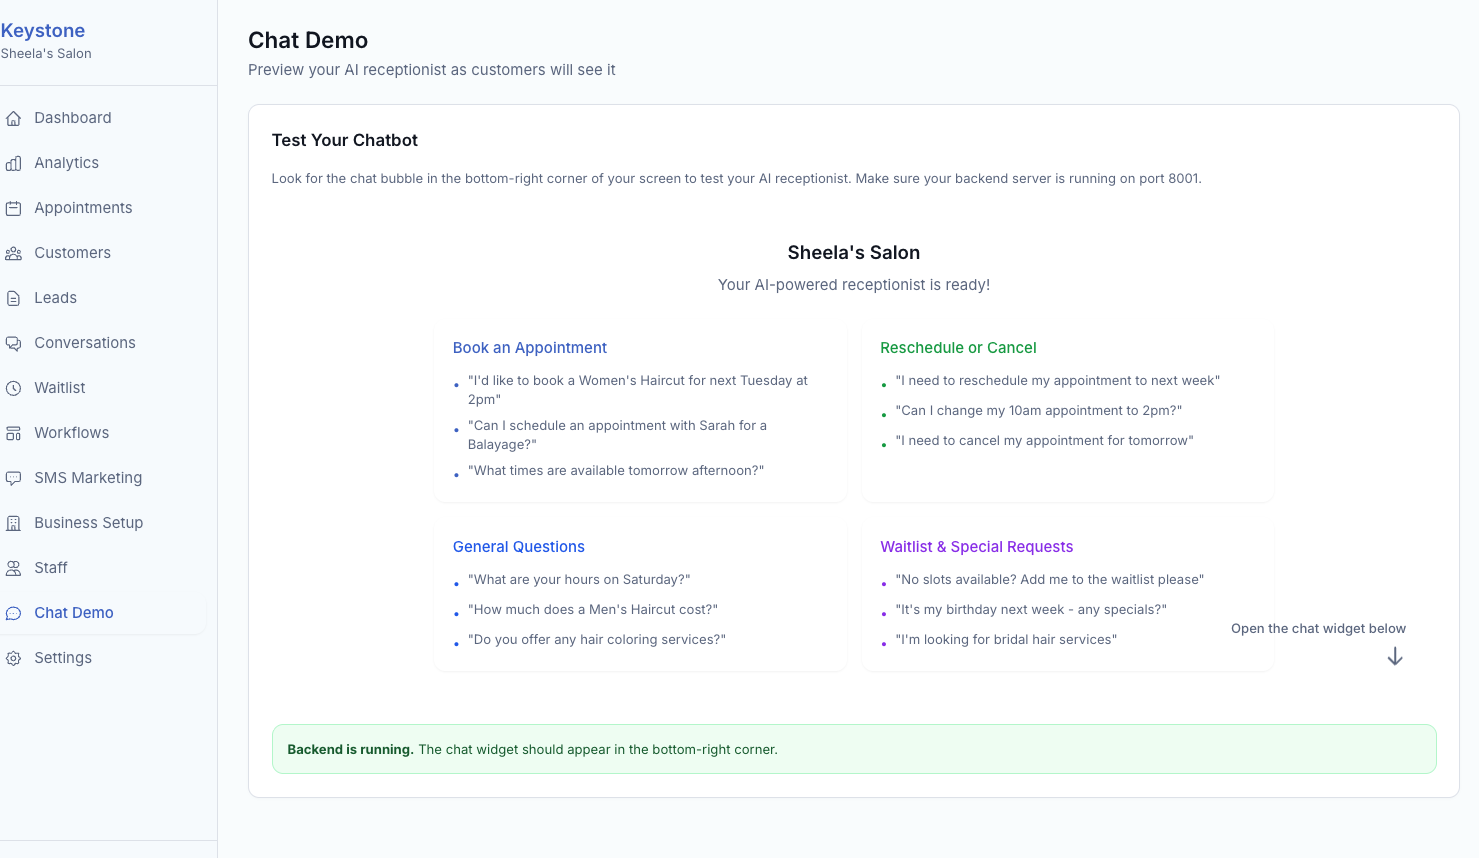
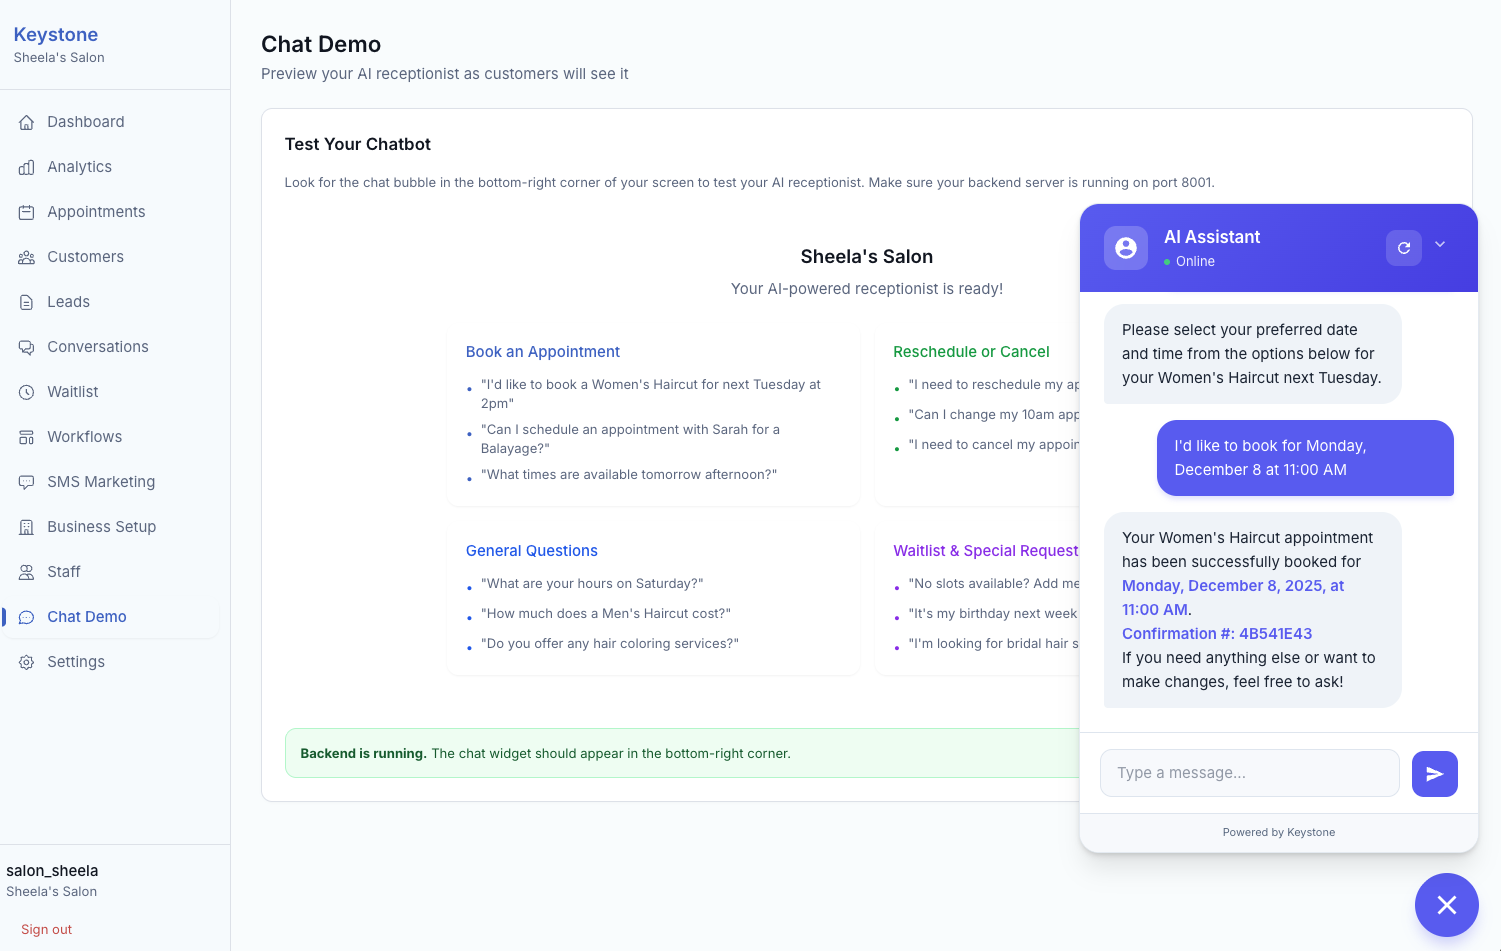
feat(deploy): configure app for production environment
Update API endpoints and embed code to use production URLs
at receptionist-ai.pragnyalabs.com instead of localhost.
Add api_url parameter to embed code generation for flexible
widget configuration. Update chat demo messaging and screenshot.
Allow .db files in version control for database persistence.

diff --git a/frontend/admin/src/pages/ChatDemo.tsx b/frontend/admin/src/pages/ChatDemo.tsx
@@ -1,7 +1,7 @@
 import { useEffect, useState } from 'react'
 import { useAuth } from '../hooks/useAuth'
 
-const API_URL = 'http://localhost:8001'
+const API_URL = 'https://receptionist-ai.pragnyalabs.com/api'
 
 export default function ChatDemo() {
   const { business } = useAuth()
@@ -70,7 +70,7 @@ export default function ChatDemo() {
         <h2 className="text-lg font-semibold mb-4">Test Your Chatbot</h2>
         <p className="text-sm text-muted-foreground mb-6">
           Look for the chat bubble in the bottom-right corner of your screen to test your AI receptionist. 
-          Make sure your backend server is running on port 8001.
+          The chat widget connects to the production API.
         </p>
         
         <div className="bg-secondary/30 rounded-xl p-8 min-h-[400px] relative">
@@ -165,12 +165,8 @@ export default function ChatDemo() {
         {backendStatus === 'offline' && (
           <div className="mt-6 p-4 bg-red-50 border border-red-200 rounded-lg">
             <p className="text-sm text-red-800">
-              <strong>Backend is not running.</strong> Start the server with:
+              <strong>Backend is not reachable.</strong> The production API at receptionist-ai.pragnyalabs.com is currently unavailable.
             </p>
-            <code className="block mt-2 bg-red-100 px-3 py-2 rounded text-red-900 font-mono text-sm">
-              cd backend && uv run python -m app.main
-            </code>
-            <p className="text-xs text-red-600 mt-2">Server should be running on port 8001</p>
           </div>
         )}
         

diff --git a/frontend/admin/src/pages/Settings.tsx b/frontend/admin/src/pages/Settings.tsx
@@ -18,7 +18,7 @@ export default function Settings() {
   const loadSettings = async () => {
     try {
       const [embedData, featuresData] = await Promise.all([
-        api.get<{ embed_code: string }>(`/business/${business!.id}/embed-code?base_url=http://localhost:8000/static`),
+        api.get<{ embed_code: string }>(`/business/${business!.id}/embed-code?base_url=https://receptionist-ai.pragnyalabs.com/static&api_url=https://receptionist-ai.pragnyalabs.com/api`),
         api.get<{ features: Record<string, boolean> }>(`/business/${business!.id}/features`)
       ])
       setEmbedCode(embedData.embed_code)

diff --git a/backend/app/api/business.py b/backend/app/api/business.py
@@ -115,13 +115,17 @@ async def update_features(business_id: str, features: dict = Body(...)):
 
 
 @router.get("/{business_id}/embed-code", response_model=dict)
-async def get_embed_code(business_id: str, base_url: Optional[str] = Query(default="https://widget.localkeystone.com")):
+async def get_embed_code(
+    business_id: str,
+    base_url: Optional[str] = Query(default="https://receptionist-ai.pragnyalabs.com/static"),
+    api_url: Optional[str] = Query(default="https://receptionist-ai.pragnyalabs.com/api")
+):
     """Get the embed code for the chat widget."""
     business = business_repo.find_by_id(business_id)
     if not business:
         raise HTTPException(status_code=404, detail="Business not found")
     
-    embed_code = f'''<script src="{base_url}/chat.js" data-business-id="{business_id}"></script>'''
+    embed_code = f'''<script src="{base_url}/chat.js" data-business-id="{business_id}" data-api-url="{api_url}"></script>'''
     
     return {
         "business_id": business_id,
